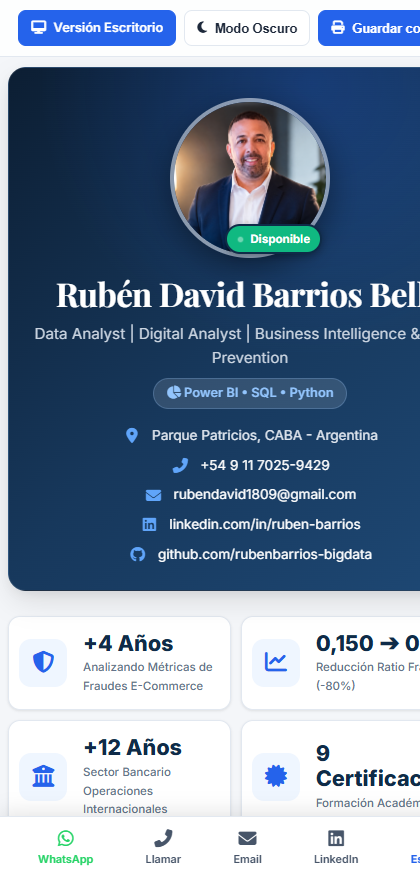
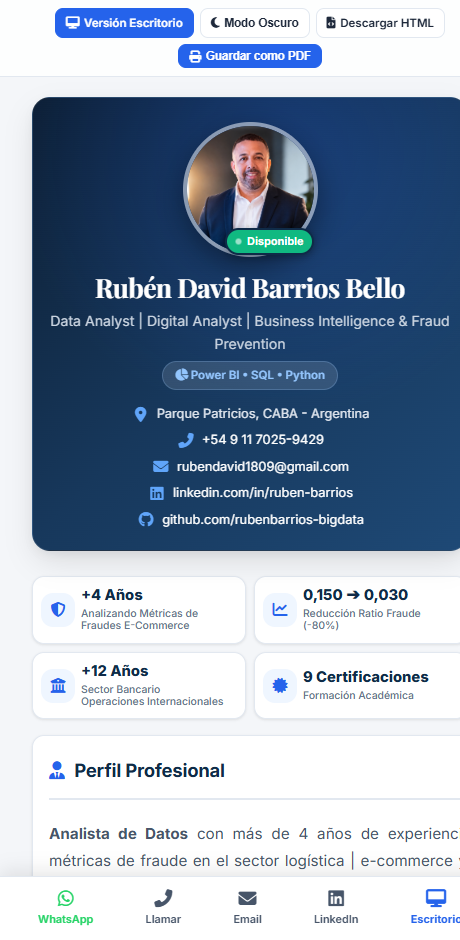
fix: corregir captura y espaciado de versión mobile sin cortes

diff --git a/CV_Ruben_Barrios_Mobile.html b/CV_Ruben_Barrios_Mobile.html
@@ -1600,36 +1600,58 @@
         body {
             padding-bottom: 75px !important;
             background: var(--bg);
+            overflow-x: hidden !important;
         }
         .container {
-            max-width: 680px !important;
+            max-width: 460px !important;
+            width: 100% !important;
             margin: 0 auto !important;
-            padding: 10px 8px !important;
+            padding: 8px 12px !important;
+            box-sizing: border-box !important;
             box-shadow: none !important;
         }
         .main-grid {
             grid-template-columns: 1fr !important;
-            gap: 16px !important;
+            gap: 14px !important;
+            width: 100% !important;
+        }
+        .action-bar {
+            display: flex !important;
+            flex-wrap: wrap !important;
+            justify-content: center !important;
+            gap: 6px !important;
+            padding: 8px 4px !important;
+            margin-bottom: 12px !important;
+            width: 100% !important;
+            box-sizing: border-box !important;
+        }
+        .action-bar .btn-action {
+            font-size: 0.72rem !important;
+            padding: 5px 10px !important;
+            gap: 5px !important;
         }
         .header {
             flex-direction: column !important;
             align-items: center !important;
             text-align: center !important;
-            padding: 30px 18px 24px !important;
-            gap: 16px !important;
+            padding: 24px 14px 20px !important;
+            gap: 14px !important;
             border-radius: var(--radius-lg) !important;
+            width: 100% !important;
+            box-sizing: border-box !important;
+            overflow: hidden !important;
         }
         .photo-wrapper {
-            width: 160px !important;
-            height: 160px !important;
+            width: 135px !important;
+            height: 135px !important;
             margin: 0 auto !important;
             position: relative !important;
             flex-shrink: 0 !important;
             z-index: 2 !important;
         }
         .photo {
-            width: 160px !important;
-            height: 160px !important;
+            width: 135px !important;
+            height: 135px !important;
             border-radius: 50% !important;
             object-fit: cover !important;
             object-position: center center !important;
@@ -1639,61 +1661,90 @@
         }
         .status-badge {
             position: absolute !important;
-            bottom: 4px !important;
-            right: 8px !important;
+            bottom: 2px !important;
+            right: 4px !important;
             background: #10b981 !important;
             color: white !important;
-            padding: 4px 10px !important;
-            font-size: 0.72rem !important;
+            padding: 3px 8px !important;
+            font-size: 0.68rem !important;
             font-weight: 700 !important;
             border-radius: 20px !important;
             display: flex !important;
             align-items: center !important;
-            gap: 6px !important;
+            gap: 5px !important;
             border: 2px solid #0f2b48 !important;
             box-shadow: 0 2px 8px rgba(0,0,0,0.3) !important;
             white-space: nowrap !important;
         }
+        .header-content {
+            width: 100% !important;
+            display: flex !important;
+            flex-direction: column !important;
+            align-items: center !important;
+        }
         .name {
-            font-size: 2.05rem !important;
+            font-size: 1.65rem !important;
             text-align: center !important;
-            line-height: 1.2 !important;
-            margin-bottom: 8px !important;
+            line-height: 1.25 !important;
+            margin-bottom: 6px !important;
+            width: 100% !important;
+            word-wrap: break-word !important;
+            overflow-wrap: break-word !important;
         }
         .title {
-            font-size: 0.95rem !important;
+            font-size: 0.88rem !important;
             flex-direction: column !important;
             align-items: center !important;
             text-align: center !important;
-            gap: 8px !important;
-            margin-bottom: 16px !important;
+            gap: 6px !important;
+            margin-bottom: 14px !important;
+            width: 100% !important;
+        }
+        .title-badge {
+            margin-left: 0 !important;
+            font-size: 0.72rem !important;
         }
         .contact-grid {
             display: flex !important;
             flex-direction: column !important;
-            gap: 8px !important;
+            gap: 6px !important;
             align-items: center !important;
             width: 100% !important;
-            font-size: 0.85rem !important;
+            font-size: 0.8rem !important;
         }
         .contact-item {
             justify-content: center !important;
             word-break: break-all !important;
+            gap: 6px !important;
         }
         .stats-banner {
             display: grid !important;
             grid-template-columns: repeat(2, 1fr) !important;
-            gap: 10px !important;
-            margin-bottom: 18px !important;
+            gap: 8px !important;
+            margin-bottom: 16px !important;
+            width: 100% !important;
+            box-sizing: border-box !important;
         }
         .stat-card {
-            padding: 14px 10px !important;
+            padding: 10px 8px !important;
+            gap: 6px !important;
+            box-sizing: border-box !important;
+            border-radius: var(--radius-md) !important;
+        }
+        .stat-icon {
+            width: 34px !important;
+            height: 34px !important;
+            font-size: 0.95rem !important;
+            flex-shrink: 0 !important;
         }
         .stat-number {
-            font-size: 1.35rem !important;
+            font-size: 0.92rem !important;
+            line-height: 1.2 !important;
+            white-space: nowrap !important;
         }
         .stat-label {
-            font-size: 0.72rem !important;
+            font-size: 0.65rem !important;
+            line-height: 1.2 !important;
         }
         .exp-header {
             flex-direction: column !important;

diff --git a/mobile.html b/mobile.html
@@ -1600,36 +1600,58 @@
         body {
             padding-bottom: 75px !important;
             background: var(--bg);
+            overflow-x: hidden !important;
         }
         .container {
-            max-width: 680px !important;
+            max-width: 460px !important;
+            width: 100% !important;
             margin: 0 auto !important;
-            padding: 10px 8px !important;
+            padding: 8px 12px !important;
+            box-sizing: border-box !important;
             box-shadow: none !important;
         }
         .main-grid {
             grid-template-columns: 1fr !important;
-            gap: 16px !important;
+            gap: 14px !important;
+            width: 100% !important;
+        }
+        .action-bar {
+            display: flex !important;
+            flex-wrap: wrap !important;
+            justify-content: center !important;
+            gap: 6px !important;
+            padding: 8px 4px !important;
+            margin-bottom: 12px !important;
+            width: 100% !important;
+            box-sizing: border-box !important;
+        }
+        .action-bar .btn-action {
+            font-size: 0.72rem !important;
+            padding: 5px 10px !important;
+            gap: 5px !important;
         }
         .header {
             flex-direction: column !important;
             align-items: center !important;
             text-align: center !important;
-            padding: 30px 18px 24px !important;
-            gap: 16px !important;
+            padding: 24px 14px 20px !important;
+            gap: 14px !important;
             border-radius: var(--radius-lg) !important;
+            width: 100% !important;
+            box-sizing: border-box !important;
+            overflow: hidden !important;
         }
         .photo-wrapper {
-            width: 160px !important;
-            height: 160px !important;
+            width: 135px !important;
+            height: 135px !important;
             margin: 0 auto !important;
             position: relative !important;
             flex-shrink: 0 !important;
             z-index: 2 !important;
         }
         .photo {
-            width: 160px !important;
-            height: 160px !important;
+            width: 135px !important;
+            height: 135px !important;
             border-radius: 50% !important;
             object-fit: cover !important;
             object-position: center center !important;
@@ -1639,61 +1661,90 @@
         }
         .status-badge {
             position: absolute !important;
-            bottom: 4px !important;
-            right: 8px !important;
+            bottom: 2px !important;
+            right: 4px !important;
             background: #10b981 !important;
             color: white !important;
-            padding: 4px 10px !important;
-            font-size: 0.72rem !important;
+            padding: 3px 8px !important;
+            font-size: 0.68rem !important;
             font-weight: 700 !important;
             border-radius: 20px !important;
             display: flex !important;
             align-items: center !important;
-            gap: 6px !important;
+            gap: 5px !important;
             border: 2px solid #0f2b48 !important;
             box-shadow: 0 2px 8px rgba(0,0,0,0.3) !important;
             white-space: nowrap !important;
         }
+        .header-content {
+            width: 100% !important;
+            display: flex !important;
+            flex-direction: column !important;
+            align-items: center !important;
+        }
         .name {
-            font-size: 2.05rem !important;
+            font-size: 1.65rem !important;
             text-align: center !important;
-            line-height: 1.2 !important;
-            margin-bottom: 8px !important;
+            line-height: 1.25 !important;
+            margin-bottom: 6px !important;
+            width: 100% !important;
+            word-wrap: break-word !important;
+            overflow-wrap: break-word !important;
         }
         .title {
-            font-size: 0.95rem !important;
+            font-size: 0.88rem !important;
             flex-direction: column !important;
             align-items: center !important;
             text-align: center !important;
-            gap: 8px !important;
-            margin-bottom: 16px !important;
+            gap: 6px !important;
+            margin-bottom: 14px !important;
+            width: 100% !important;
+        }
+        .title-badge {
+            margin-left: 0 !important;
+            font-size: 0.72rem !important;
         }
         .contact-grid {
             display: flex !important;
             flex-direction: column !important;
-            gap: 8px !important;
+            gap: 6px !important;
             align-items: center !important;
             width: 100% !important;
-            font-size: 0.85rem !important;
+            font-size: 0.8rem !important;
         }
         .contact-item {
             justify-content: center !important;
             word-break: break-all !important;
+            gap: 6px !important;
         }
         .stats-banner {
             display: grid !important;
             grid-template-columns: repeat(2, 1fr) !important;
-            gap: 10px !important;
-            margin-bottom: 18px !important;
+            gap: 8px !important;
+            margin-bottom: 16px !important;
+            width: 100% !important;
+            box-sizing: border-box !important;
         }
         .stat-card {
-            padding: 14px 10px !important;
+            padding: 10px 8px !important;
+            gap: 6px !important;
+            box-sizing: border-box !important;
+            border-radius: var(--radius-md) !important;
+        }
+        .stat-icon {
+            width: 34px !important;
+            height: 34px !important;
+            font-size: 0.95rem !important;
+            flex-shrink: 0 !important;
         }
         .stat-number {
-            font-size: 1.35rem !important;
+            font-size: 0.92rem !important;
+            line-height: 1.2 !important;
+            white-space: nowrap !important;
         }
         .stat-label {
-            font-size: 0.72rem !important;
+            font-size: 0.65rem !important;
+            line-height: 1.2 !important;
         }
         .exp-header {
             flex-direction: column !important;
